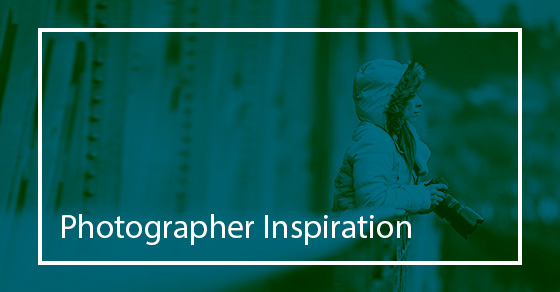
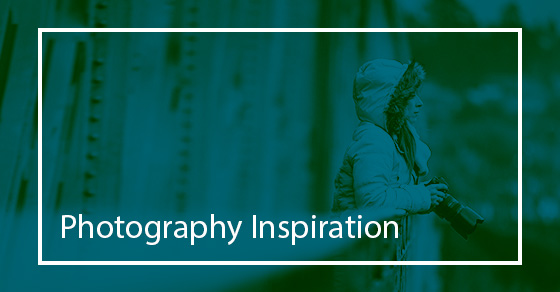
seo

Changed region(s): [[0.3946, 0.7397, 0.7589, 0.8322]]

diff --git a/resources/views/site/master.blade.php b/resources/views/site/master.blade.php
@@ -19,17 +19,19 @@ if (isset($seo)){
     <title>@yield('title')</title>
     <meta name="description" content="@yield('description')">
     <meta name="keywords" content="@yield('keywords')">
-
-
+    
     <link rel="stylesheet" href="/assets/css/app.css">
     <meta name="viewport" content="width=device-width, initial-scale=1">
 
+    <meta name="author" content="Axel Gonzalez">
+
     <meta property="fb:app_id" content="{{env('FB_APP_ID')}}">
     <meta property="og:url" content="{{$seo->canonical}}">
-    <meta property="og:site_name" content="Doctor Advisor">
+    <meta property="og:site_name" content="Photography Inspiration">
     <meta property="og:title" content="{{$seo->title}}">
     <meta property="og:description" content="{{$seo->description}}">
-    <meta property="og:image" content="{{$seo->image}}">
+    <meta property="og:image" content="{{$seo->domain}}{{$seo->image}}">
+    <meta property="og:type"   content="website" />
 
     <meta name="twitter:account_id" content="" />
     <meta name="twitter:card" content="summary_large_image" />
@@ -39,7 +41,6 @@ if (isset($seo)){
     <meta name="twitter:description" content="{{$seo->description}}">
     <meta name="twitter:domain" content="{{$seo->domain}}">
 
-    <meta name="author" content="Axel Gonzalez">
     <script>
         (function(i,s,o,g,r,a,m){i['GoogleAnalyticsObject']=r;i[r]=i[r]||function(){
                     (i[r].q=i[r].q||[]).push(arguments)},i[r].l=1*new Date();a=s.createElement(o),
